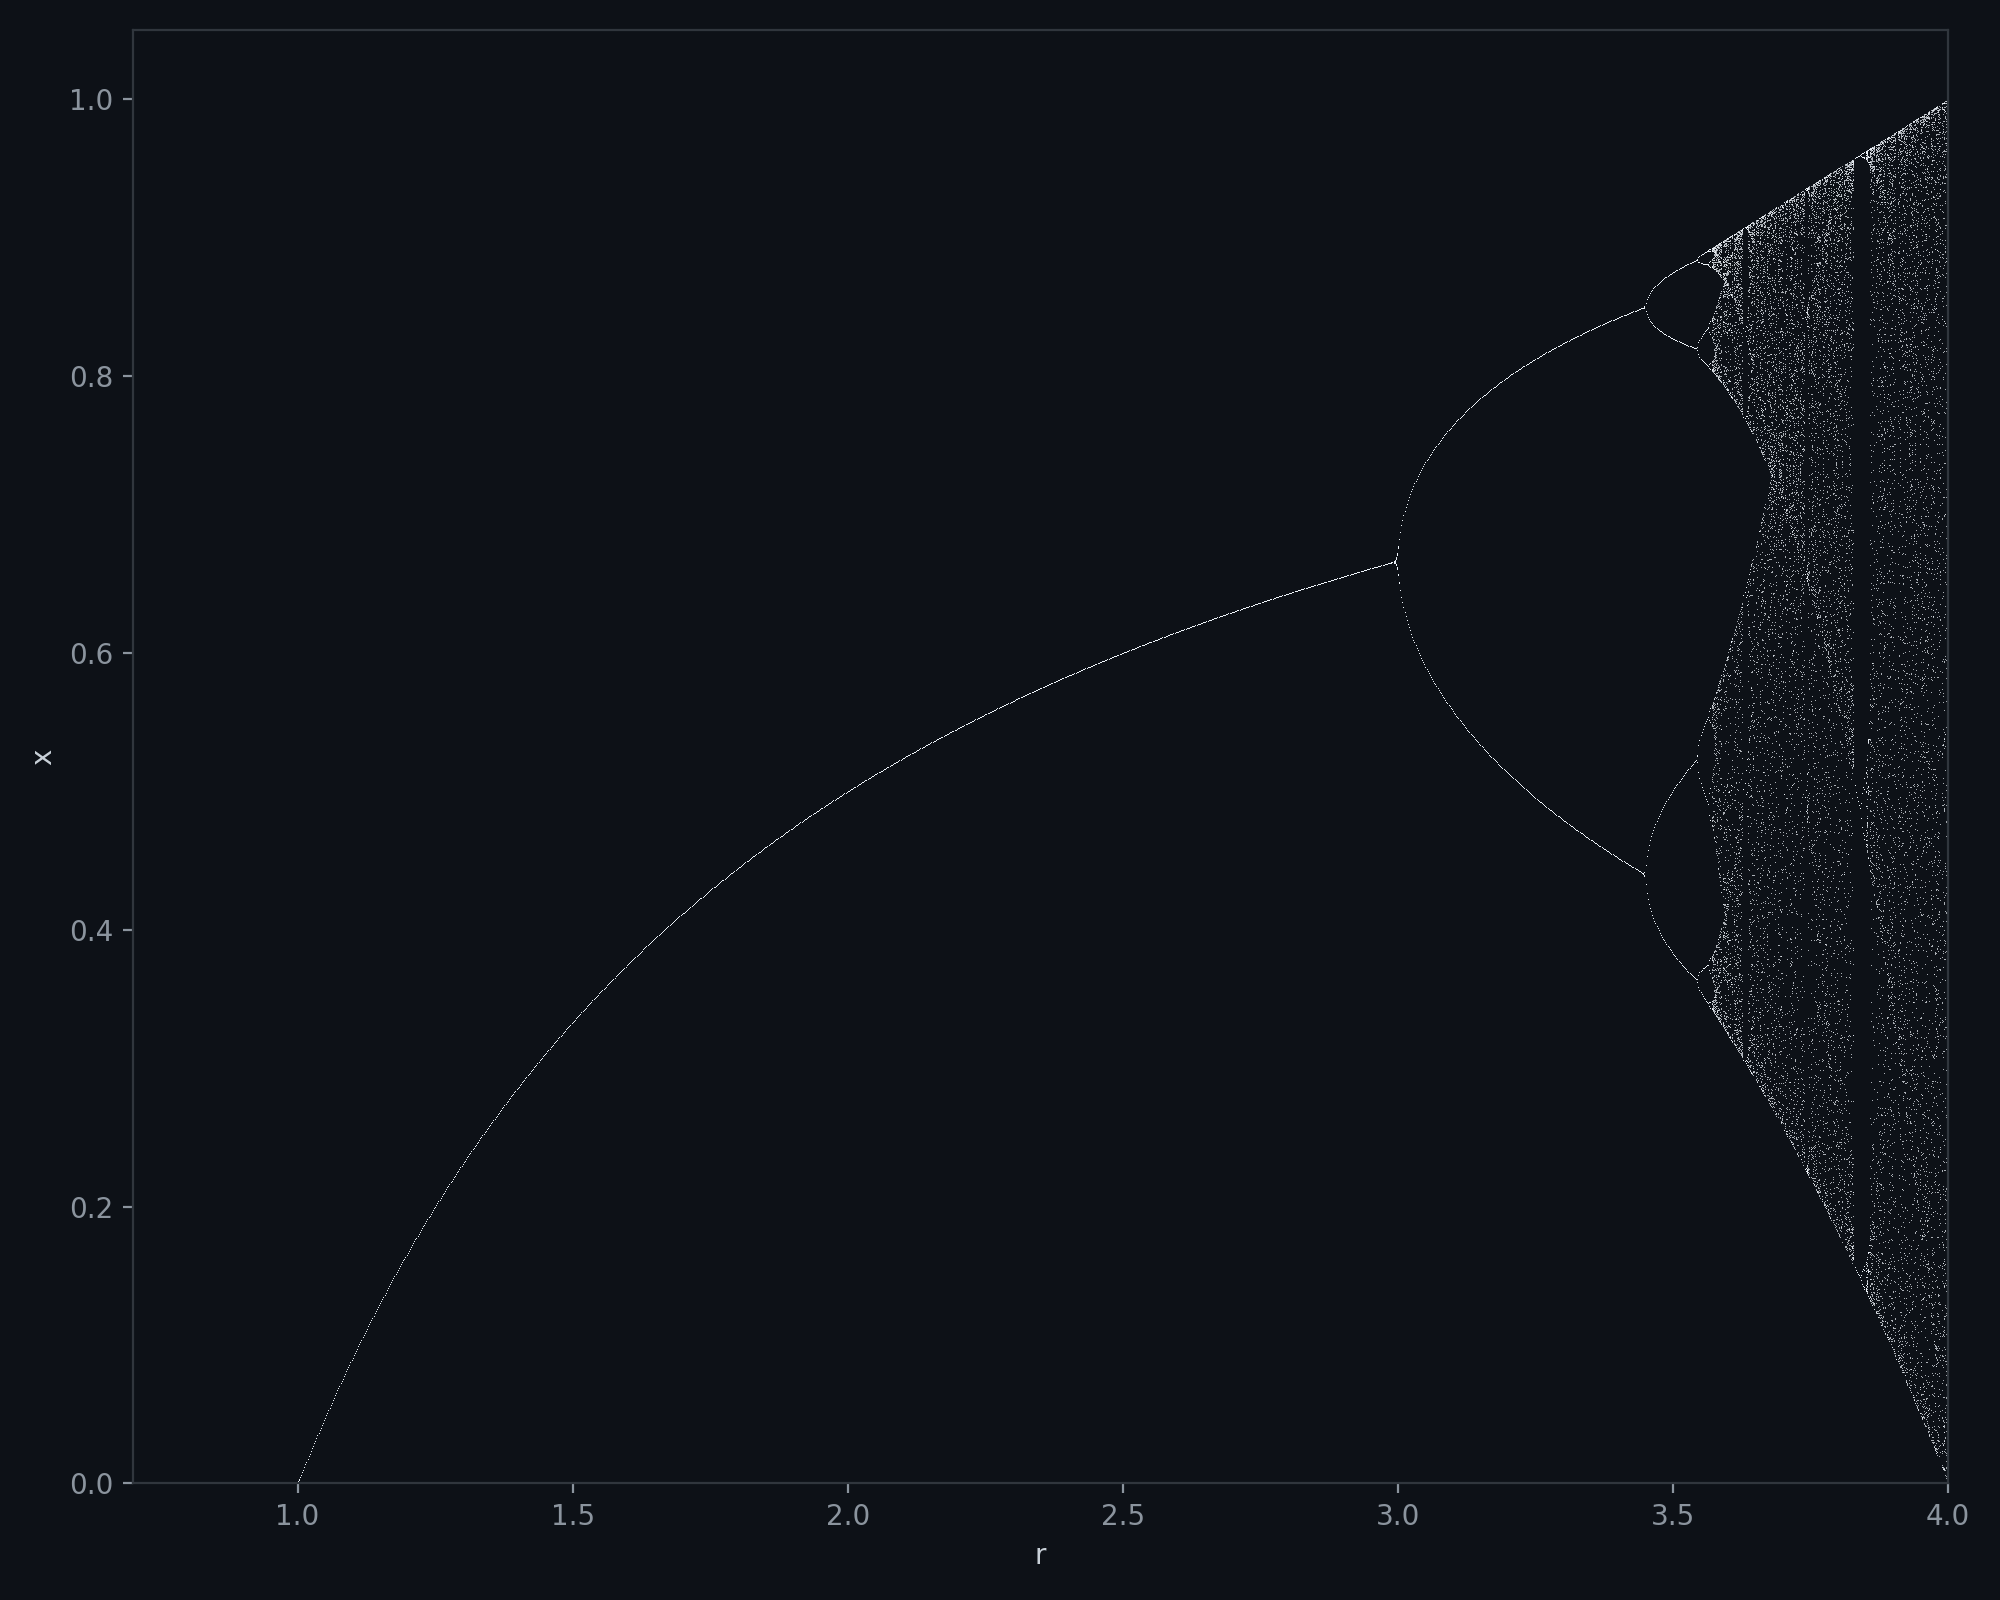
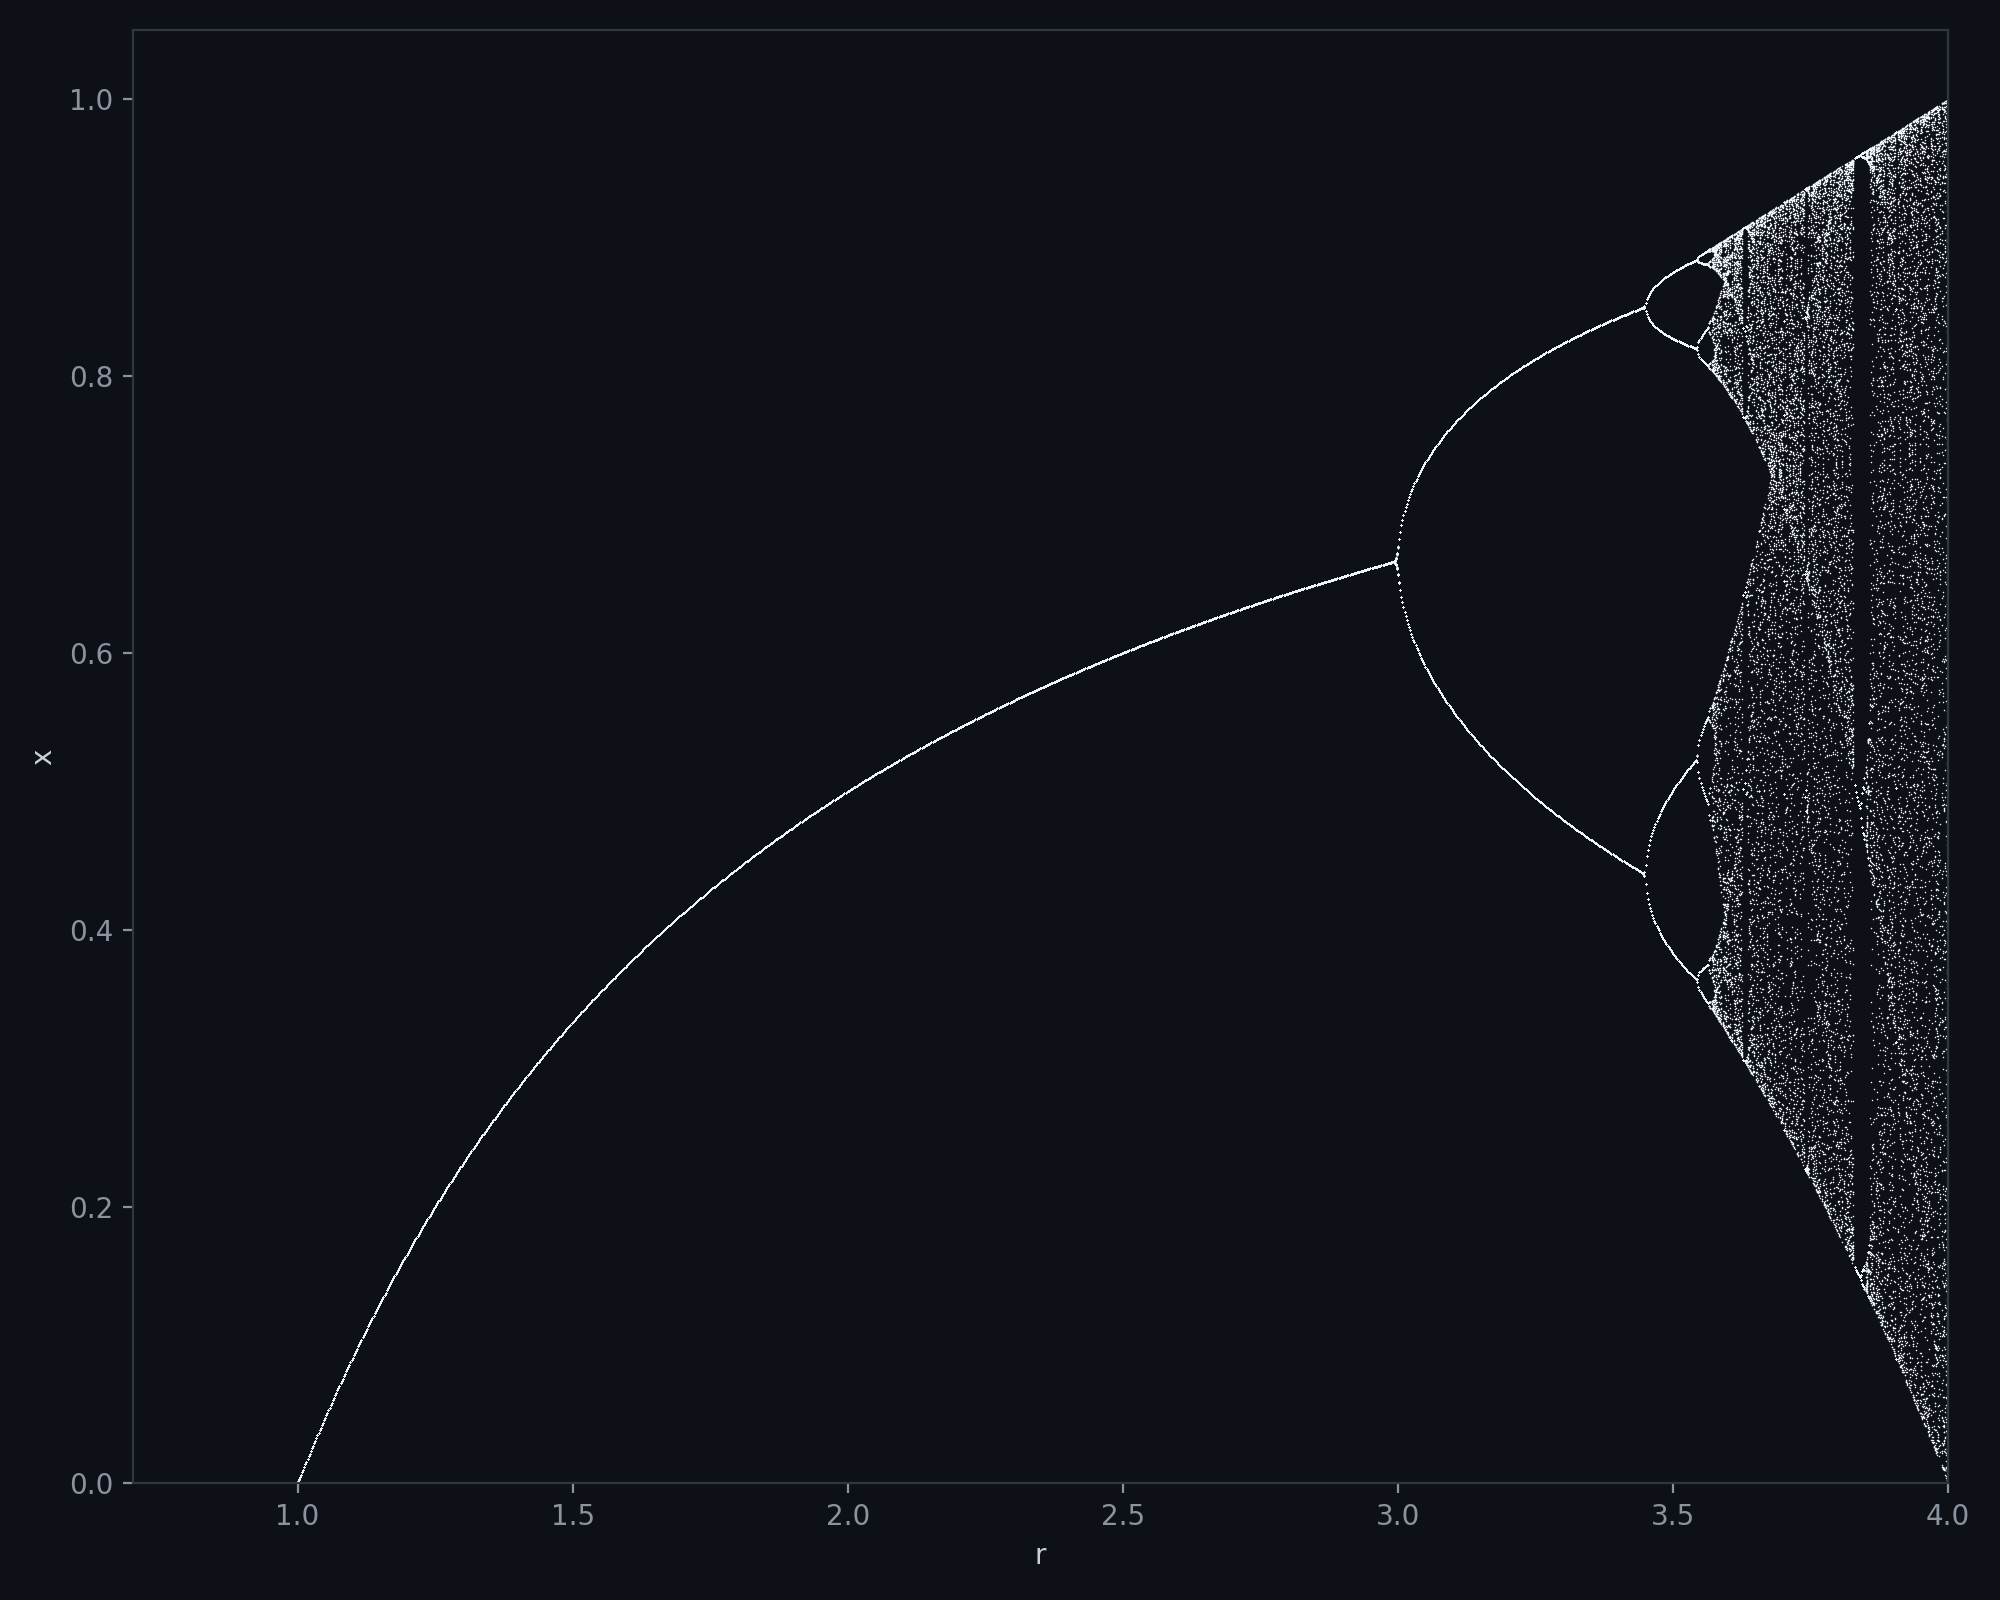
Increase dot size in bifurcation figures, trim fluff wording

Changed region(s): [[0.837, 0.0625, 0.992, 0.9062]]

diff --git a/logistic-transients/code/generate_figures.py b/logistic-transients/code/generate_figures.py
@@ -53,7 +53,7 @@ colors = [R4_PALETTE[k % 8] for k in range(40)]
 with np.errstate(over="ignore", invalid="ignore"):
     for r in r_values:
         ys = transient(r)
-        ax.scatter(np.full(40, r), ys, c=colors, s=1.0, marker='.', linewidths=0)
+        ax.scatter(np.full(40, r), ys, c=colors, s=4.0, marker='.', linewidths=0)
 ax.set_xlim(0.7, 4)
 ax.set_ylim(0, 1.05)
 ax.set_xlabel("r")
@@ -69,7 +69,7 @@ fig, ax = plt.subplots(figsize=(10, 8))
 with np.errstate(over="ignore", invalid="ignore"):
     for r in r_values2:
         ys = converged_tail(r)
-        ax.scatter(np.full(len(ys), r), ys, c="#f0f6fc", s=0.3, marker='.', linewidths=0)
+        ax.scatter(np.full(len(ys), r), ys, c="#f0f6fc", s=1.2, marker='.', linewidths=0)
 ax.set_xlim(0.7, 4)
 ax.set_ylim(0, 1.05)
 ax.set_xlabel("r")

diff --git a/logistic-transients/README.md b/logistic-transients/README.md
@@ -4,7 +4,7 @@
 
 The [logistic map](https://en.wikipedia.org/wiki/Logistic_map) $x_{n+1} = r x_n (1 - x_n)$ is usually visualized with a bifurcation diagram: for each $r$, iterate the map many times, throw away the first hundred or so iterations (the *transient*), and plot only the values it settles into (the *attractor*). That's the classic fractal-looking tree.
 
-An R script written to do exactly this had a bug: instead of discarding the transient and keeping the tail, it kept a rolling window of the **first 40 iterations** and plotted those — the part that's normally thrown away. The result isn't the textbook diagram; it's the transient's own geometry, laid bare.
+An R script written to do exactly this had a bug: instead of discarding the transient and keeping the tail, it kept a rolling window of the **first 40 iterations** and plotted those — the part that's normally thrown away. The result is not the textbook bifurcation diagram; it's a plot of the transient itself, before it converges.
 
 ---
 
@@ -13,6 +13,8 @@ An R script written to do exactly this had a bug: instead of discarding the tran
 ![transient](figures/transient.png)
 
 Every point is colored by its step index (1st iterate, 2nd iterate, ... 40th), all starting from the same $x_0 = 0.99999$. Each colored arc is one iteration step traced across every value of $r$ — that's why fanning, layered curves appear where a normal bifurcation diagram just shows a single line splitting in two.
+
+This happens because for low-to-moderate $r$, the map converges quickly, so the first 40 iterates are already close to the eventual attractor and trace out a smooth curve per step. Past the chaotic threshold ($r \gtrsim 3.57$), 40 steps isn't enough to settle anywhere, so the points scatter.
 
 ## What it's supposed to look like
 
